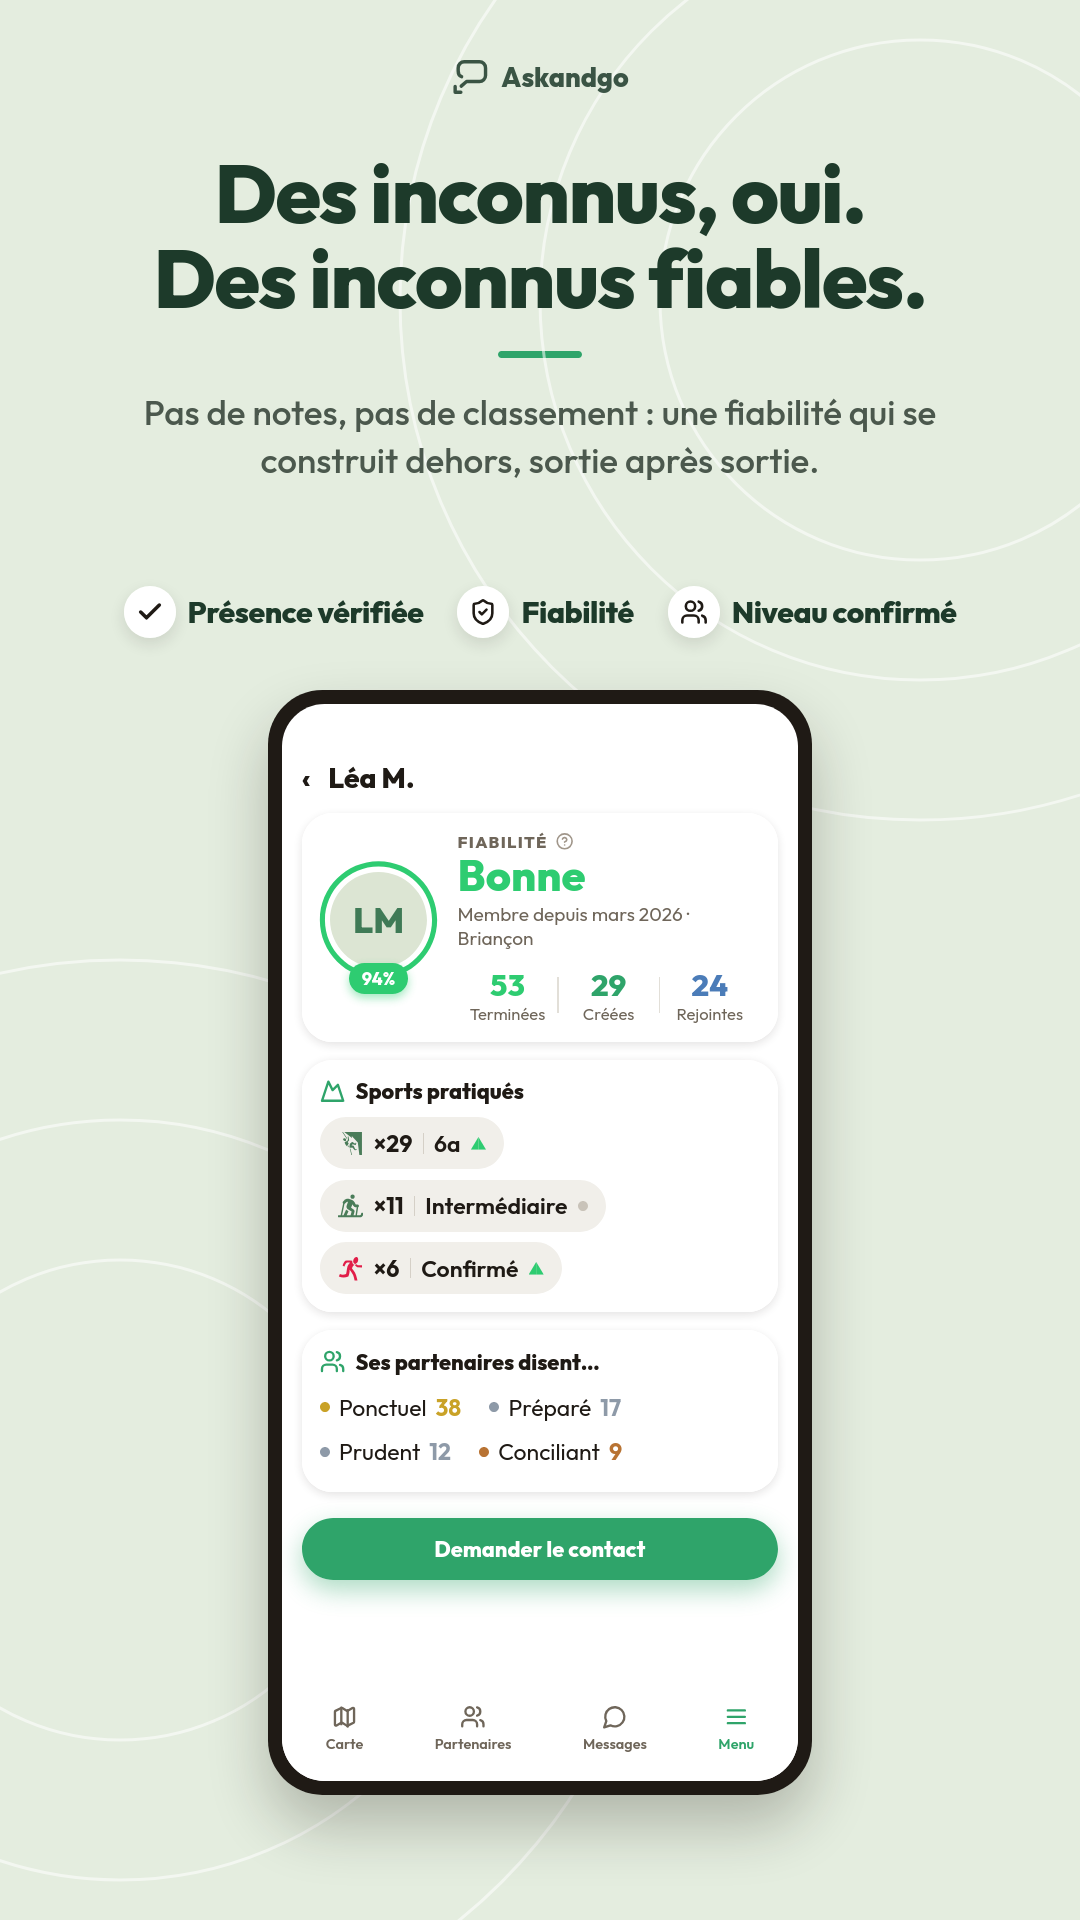
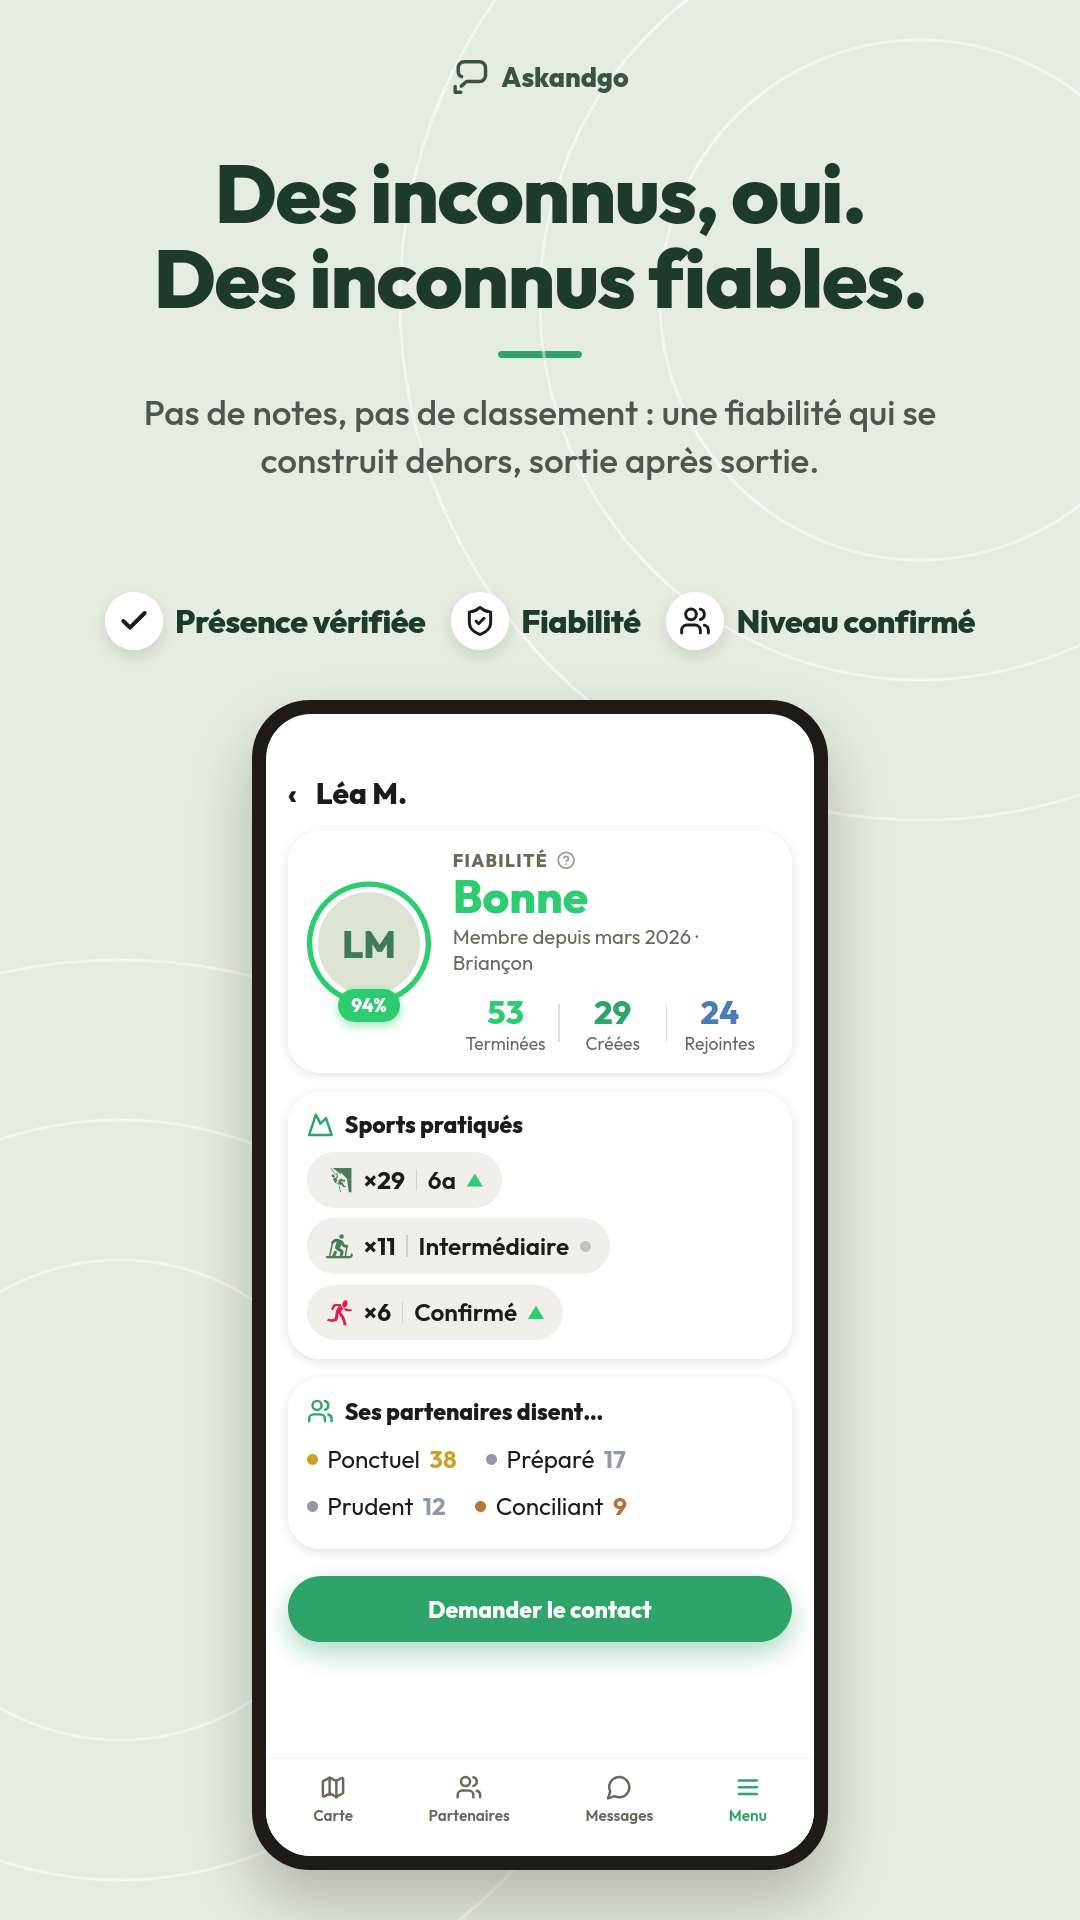
fix(play): images 2, 4, 5 — bigger keyword row and phones (90 % single, 70 % side by side), screens a little lower

Changed region(s): [[0.2139, 0.375, 0.7639, 1.0], [0.0917, 0.2812, 0.9167, 0.375], [0.6417, 0.5, 0.6722, 0.5625]]

diff --git a/assets/play-store/askandgo/single.py b/assets/play-store/askandgo/single.py
@@ -13,22 +13,22 @@ screen_body = body
 
 def keywords(items):
     # items: [(icon_html, word)] — one centred row, title typography, no boxes
-    cells = ''.join(f'<div style="display:flex;align-items:center;gap:12px"><span style="width:52px;height:52px;border-radius:50%;background:#FFF;display:inline-flex;align-items:center;justify-content:center;box-shadow:0 6px 16px rgba(31,26,21,.12)">{ic}</span><span style="font-size:30px;font-weight:800;color:{DEEP};letter-spacing:-.4px;white-space:nowrap">{w}</span></div>' for ic, w in items)
-    return f'<div style="position:absolute;left:0;right:0;top:586px;display:flex;justify-content:center;gap:34px;padding:0 30px">{cells}</div>'
+    cells = ''.join(f'<div style="display:flex;align-items:center;gap:12px"><span style="width:58px;height:58px;border-radius:50%;background:#FFF;display:inline-flex;align-items:center;justify-content:center;box-shadow:0 6px 16px rgba(31,26,21,.12)">{ic}</span><span style="font-size:32px;font-weight:800;color:{DEEP};letter-spacing:-.5px;white-space:nowrap">{w}</span></div>' for ic, w in items)
+    return f'<div style="position:absolute;left:0;right:0;top:592px;display:flex;justify-content:center;gap:26px;padding:0 20px">{cells}</div>'
 
 def single(title, sub, body_html, items):
     shell = screen(title, sub, '', '')
-    phone = f'<div class="phone" style="left:220px;top:690px;transform:scale(.85);box-shadow:0 36px 70px rgba(31,26,21,.26)"><div class="scr">{body_html}</div></div>'
+    phone = f'<div class="phone" style="left:220px;top:700px;transform:scale(.9);box-shadow:0 36px 70px rgba(31,26,21,.26)"><div class="scr">{body_html}</div></div>'
     return shell.replace('<div class="phone"><div class="scr"></div></div>', keywords(items) + phone)
 
 if which == '2':
     html = single("Dedans, tout<br>s'organise.", "Covoiturage, matériel, discussion de groupe, rendez-vous : tout le monde voit la même chose.", screen_body,
-                  [(li('car', 28, INK), 'Qui conduit'), (li('bag', 28, INK), 'Qui apporte quoi'), (li('msg', 28, INK), 'On se parle')])
+                  [(li('car', 32, INK), 'Qui conduit'), (li('bag', 32, INK), 'Qui apporte quoi'), (li('msg', 32, INK), 'On se parle')])
 elif which == '4':
     html = single('Des discussions qui<br>finissent dehors.', 'Conditions du jour, binômes, matos, sorties proposées — chaque vallée a ses canaux.', screen_body,
-                  [(sp('ski-touring', 30, INK), 'Par sport'), (li('pin', 28, INK), 'Par vallée'), (li('users', 28, INK), 'Ouvert à tous')])
+                  [(sp('ski-touring', 34, INK), 'Par sport'), (li('pin', 32, INK), 'Par vallée'), (li('users', 32, INK), 'Ouvert à tous')])
 else:
     html = single('Des inconnus, oui.<br>Des inconnus fiables.', 'Pas de notes, pas de classement : une fiabilité qui se construit dehors, sortie après sortie.', screen_body,
-                  [(li('check', 28, INK, 3), 'Présence vérifiée'), (li('shield', 28, INK), 'Fiabilité'), (li('users', 28, INK), 'Niveau confirmé')])
+                  [(li('check', 32, INK, 3), 'Présence vérifiée'), (li('shield', 32, INK), 'Fiabilité'), (li('users', 32, INK), 'Niveau confirmé')])
 open(sys.argv[2], 'w').write(html)
 print('ok')

diff --git a/assets/play-store/askandgo/two.py b/assets/play-store/askandgo/two.py
@@ -101,14 +101,14 @@ offering_body = f'''<div class="zoomwrap" style="background:#FFF">
 </div></div>'''
 
 def keywords(items):
-    cells = ''.join(f'<div style="display:flex;align-items:center;gap:12px"><span style="width:52px;height:52px;border-radius:50%;background:#FFF;display:inline-flex;align-items:center;justify-content:center;box-shadow:0 6px 16px rgba(31,26,21,.12)">{ic}</span><span style="font-size:30px;font-weight:800;color:{DEEP};letter-spacing:-.4px;white-space:nowrap">{w}</span></div>' for ic, w in items)
-    return f'<div style="position:absolute;left:0;right:0;top:586px;display:flex;justify-content:center;gap:34px;padding:0 30px">{cells}</div>'
+    cells = ''.join(f'<div style="display:flex;align-items:center;gap:12px"><span style="width:58px;height:58px;border-radius:50%;background:#FFF;display:inline-flex;align-items:center;justify-content:center;box-shadow:0 6px 16px rgba(31,26,21,.12)">{ic}</span><span style="font-size:32px;font-weight:800;color:{DEEP};letter-spacing:-.5px;white-space:nowrap">{w}</span></div>' for ic, w in items)
+    return f'<div style="position:absolute;left:0;right:0;top:592px;display:flex;justify-content:center;gap:26px;padding:0 20px">{cells}</div>'
 
 # Image 4: two straight phones side by side (Scott 2026-10-27) under the keyword row.
 def side_by_side(title, sub, body_a, body_b, items):
     shell = screen(title, sub, '', '')
-    phones = (f'<div class="phone" style="left:-8px;top:700px;transform:scale(.66);box-shadow:0 30px 60px rgba(31,26,21,.24)"><div class="scr">{body_a}</div></div>'
-              f'<div class="phone" style="left:448px;top:700px;transform:scale(.66);box-shadow:0 30px 60px rgba(31,26,21,.24)"><div class="scr">{body_b}</div></div>')
+    phones = (f'<div class="phone" style="left:-14px;top:730px;transform:scale(.70);box-shadow:0 30px 60px rgba(31,26,21,.24)"><div class="scr">{body_a}</div></div>'
+              f'<div class="phone" style="left:454px;top:730px;transform:scale(.70);box-shadow:0 30px 60px rgba(31,26,21,.24)"><div class="scr">{body_b}</div></div>')
     return shell.replace('<div class="phone"><div class="scr"></div></div>', keywords(items) + phones)
 
 # ---------- 4 · a channel's thread: several people, a shared outing, reactions ----------
@@ -137,7 +137,7 @@ thread_body = f'''<div class="zoomwrap" style="background:#FFF">
 
 if which == '4':
     html = side_by_side('Des discussions qui<br>finissent dehors.', 'Conditions du jour, binômes, matos, sorties proposées — chaque vallée a ses canaux.', canaux_body, thread_body,
-                        [(sp('ski-touring', 30, INK), 'Par sport'), (li('pin', 28, INK), 'Par vallée'), (li('users', 28, INK), 'Ouvert à tous')])
+                        [(sp('ski-touring', 34, INK), 'Par sport'), (li('pin', 32, INK), 'Par vallée'), (li('users', 32, INK), 'Ouvert à tous')])
 elif which == '3':
     html = two_screens('Dis quand<br>tu es dispo.', 'Pour quels sports, dans quelle zone — et vois qui cherche la même chose. Un message, et vous partez ensemble.', partenaires_body, dispo_body)
 else:
